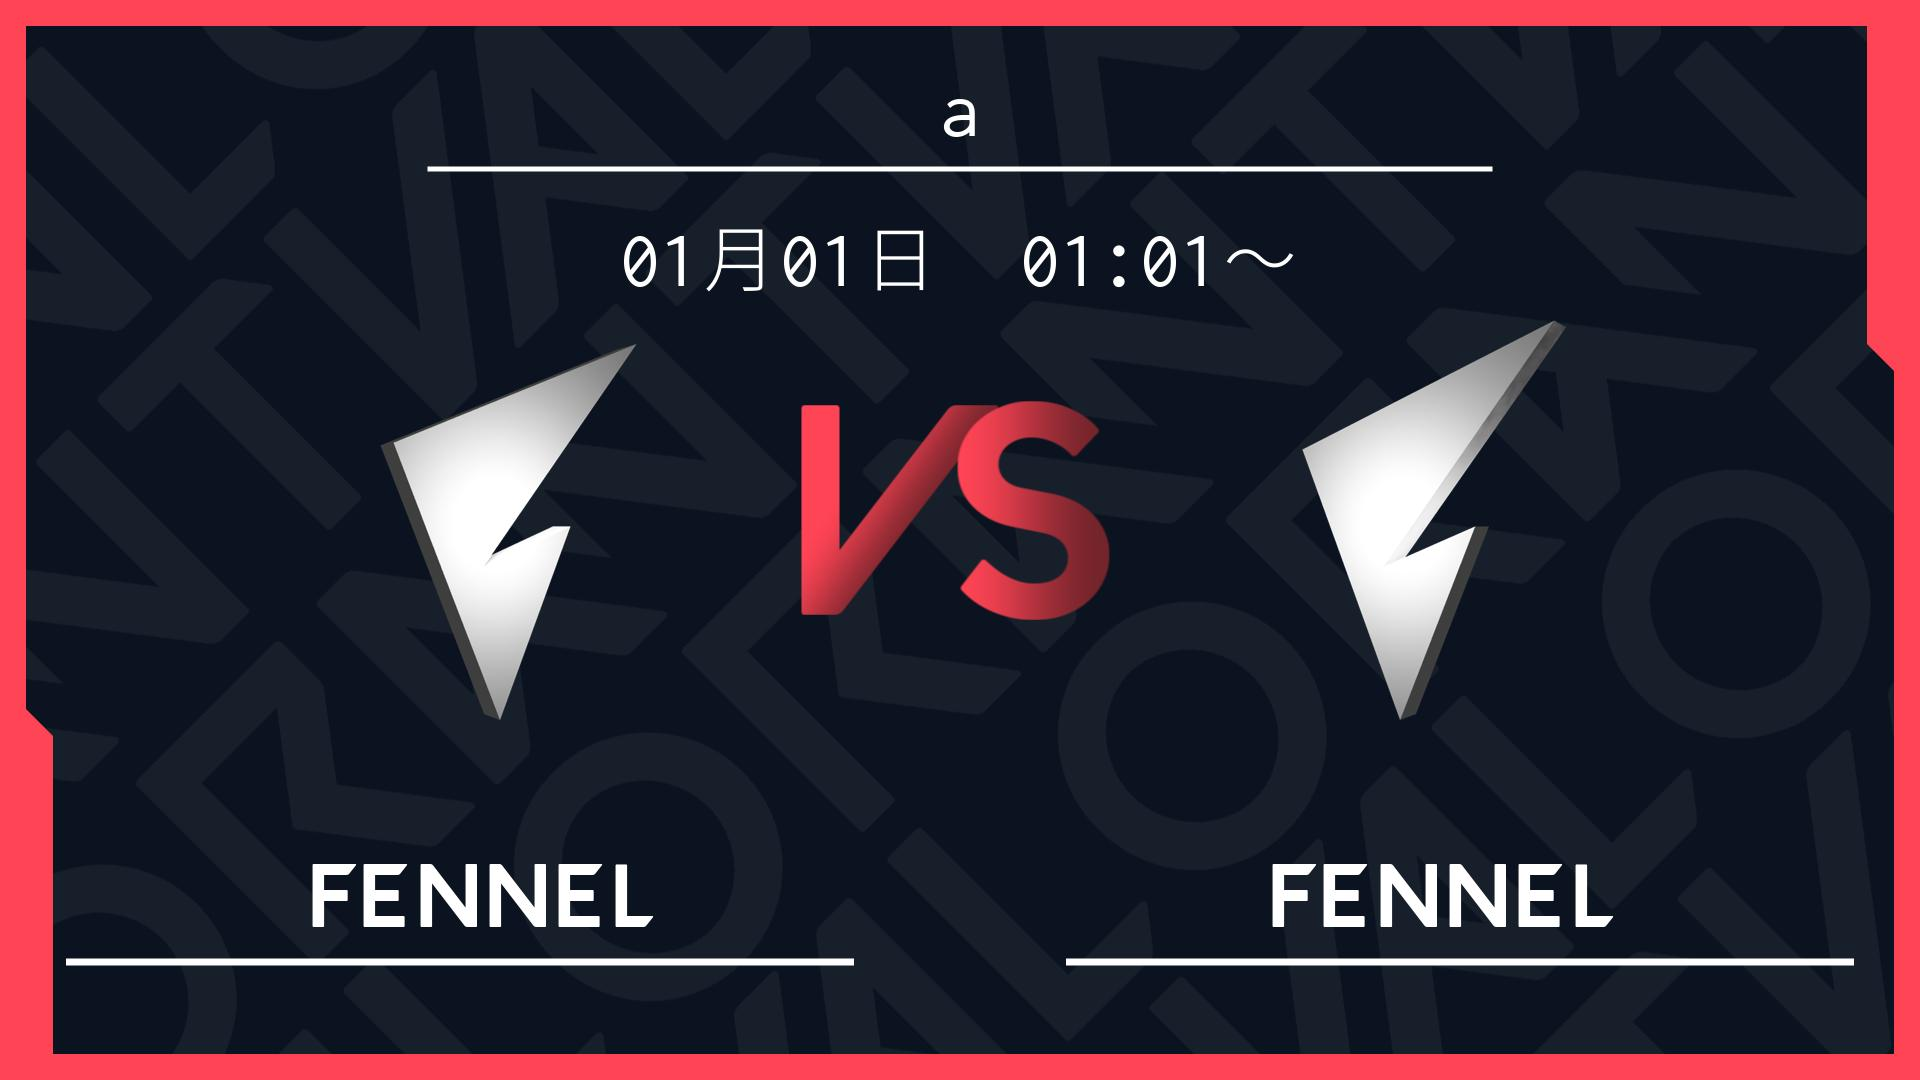
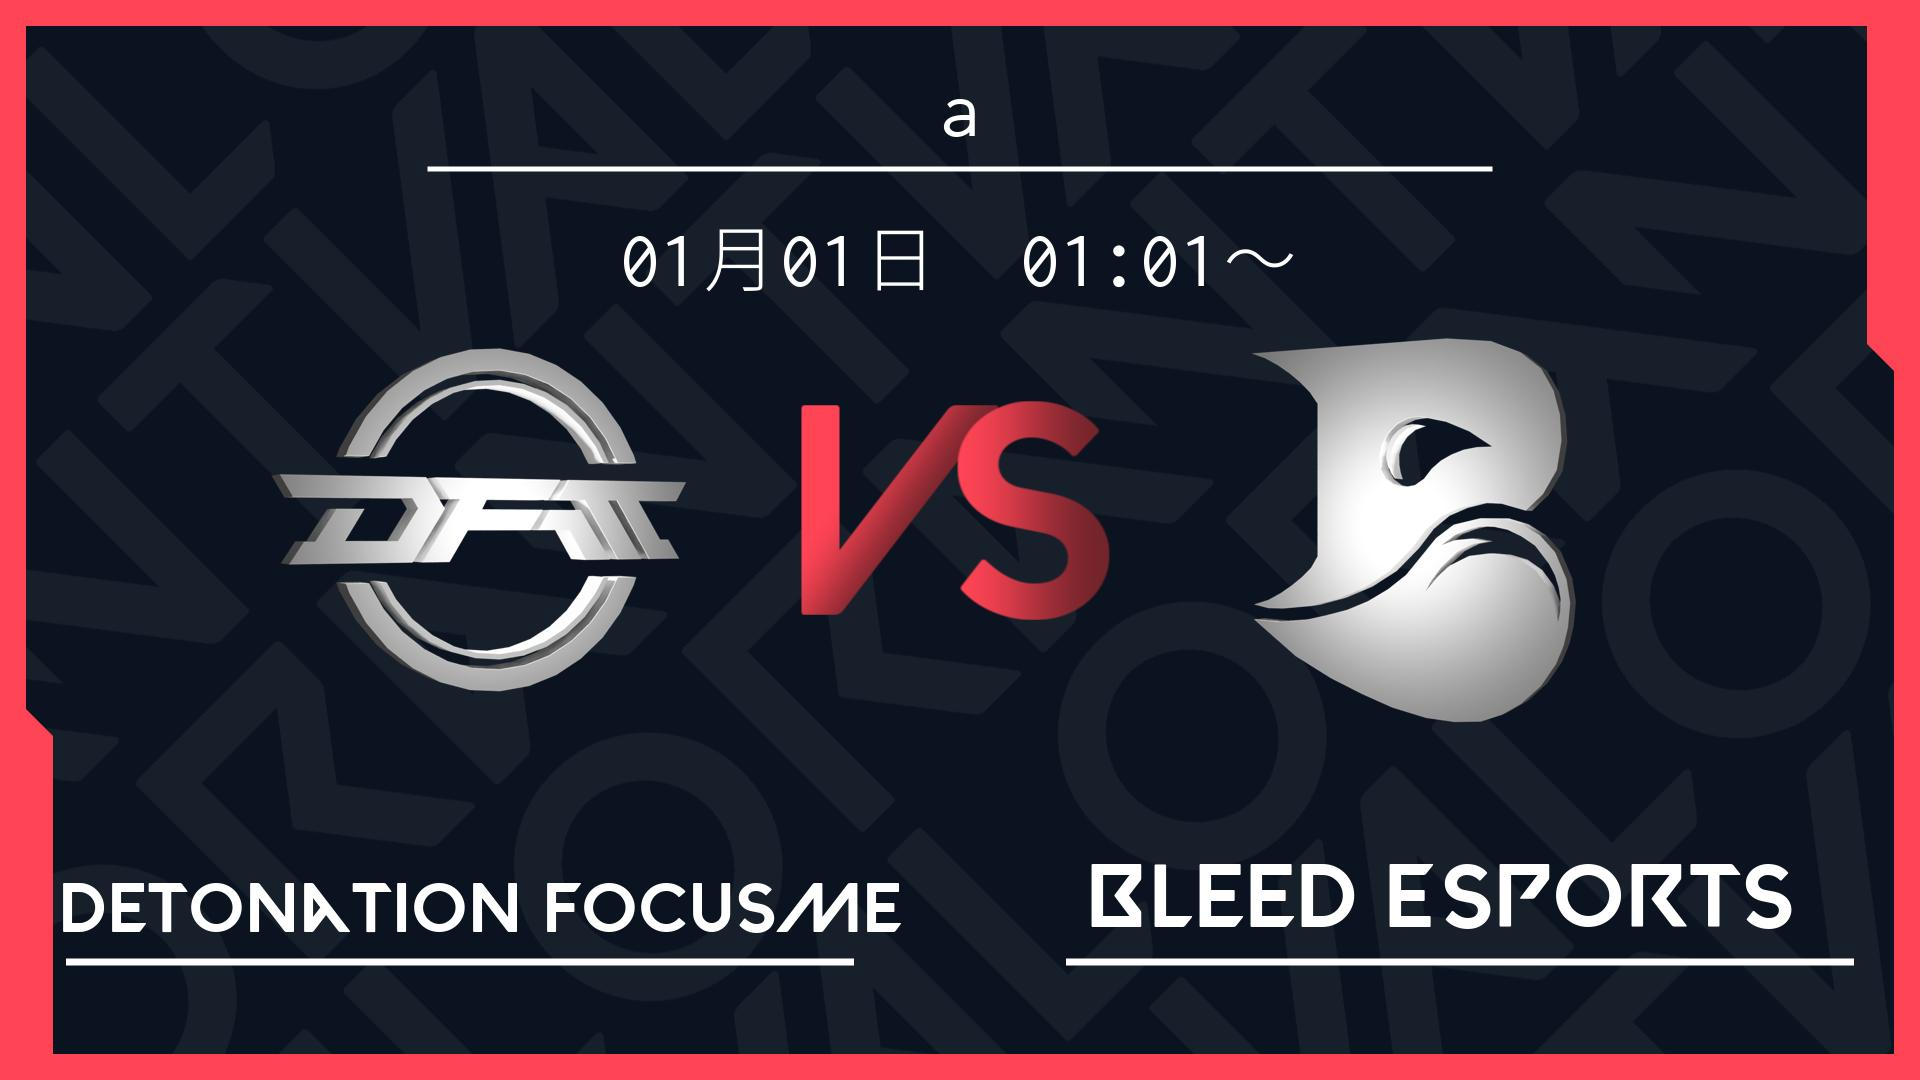
できてねぇじゃねえか

diff --git a/src/functions/TeamCheck.py b/src/functions/TeamCheck.py
@@ -10,10 +10,10 @@ edg = ["../resource/Image/tier1/edg_logo_left.png", "../resource/Image/tier1/edg
 navi = ["../resource/Image/tier1/navi_logo_left.png", "../resource/Image/tier1/navi_logo_right.png", "Natus Vincere"]
 tl = ["../resource/Image/tier1/tl_logo_left.png", "../resource/Image/tier1/tl_logo_right.png", "Team Liquid"]
 nrg = ["../resource/Image/tier1/nrg_logo_left.png", "../resource/Image/tier1/nrg_logo_right.png", "NRG"]
-dfm = []
-bld = []
-gen = []
-t1 = []
+dfm = ["../resource/Image/tier1/dfm_logo_left.png", "../resource/Image/tier1/dfm_logo_right.png", "DetonatioN FocusMe"]
+bld = ["../resource/Image/tier1/bld_logo_left.png", "../resource/Image/tier1/bld_logo_right.png", "Bleed Esports"]
+gen = ["../resource/Image/tier1/gen_logo_left.png", "../resource/Image/tier1/gen_logo_right.png", "Gen.G"]
+t1 = ["../resource/Image/tier1/t1_logo_left.png", "../resource/Image/tier1/t1_logo_right.png", "T1"]
 
 sz = ["../resource/Image/tier2/sz_logo_left.png", "../resource/Image/tier2/sz_logo_right.png", "SCARZ"]
 fl = ["../resource/Image/tier2/fl_logo_left.png", "../resource/Image/tier2/fl_logo_right.png", "FENNEL"]
@@ -112,8 +112,8 @@ def TeamCheck(team1, team2):
         team2 = dfm
     elif team2 == "bld":
         team2 = bld
-    elif team2 == "dfm":
-        team2 = dfm
+    elif team2 == "gen":
+        team2 = gen
     elif team2 == "t1":
         team2 = t1
     

diff --git a/src/functions/MakeImage.py b/src/functions/MakeImage.py
@@ -11,6 +11,7 @@ out_vote = "../out/vote_Image.jpg"
 font_Valorant = ImageFont.truetype("../resource/font/Valorant Font.ttf", 90)
 font_Myrica = ImageFont.truetype("../resource/font/Myrica.TTC", 80)
 font_Myrica_Small = ImageFont.truetype("../resource/font/Myrica.TTC", 70)
+font_Valorant_mini = ImageFont.truetype("../resource/font/Valorant Font.ttf", 70)
 
 def MkImage(NameEvent, month, day, hour, minutes, T1, T2):
     
@@ -35,8 +36,14 @@ def MkImage(NameEvent, month, day, hour, minutes, T1, T2):
     
     draw.text((960, 150), NameEvent, "#ffffff", font=font_Myrica, anchor='md')
     draw.text((960, 300), Date, "#ffffff", font=font_Myrica, anchor='md')
-    draw.text((480, 950), team1[2], "#ffffff", font=font_Valorant, anchor='md')
-    draw.text((1440, 950), team2[2], "#ffffff", font=font_Valorant, anchor='md')
+    if T1 == "dfm":
+        draw.text((480, 950), team1[2], "#ffffff", font=font_Valorant_mini, anchor='md')
+    else:
+        draw.text((480, 950), team1[2], "#ffffff", font=font_Valorant, anchor='md')
+    if T2 == "dfm":
+        draw.text((1440, 950), team2[2], "#ffffff", font=font_Valorant_mini, anchor='md')
+    else:
+        draw.text((1440, 950), team2[2], "#ffffff", font=font_Valorant, anchor='md')
     
     
     
